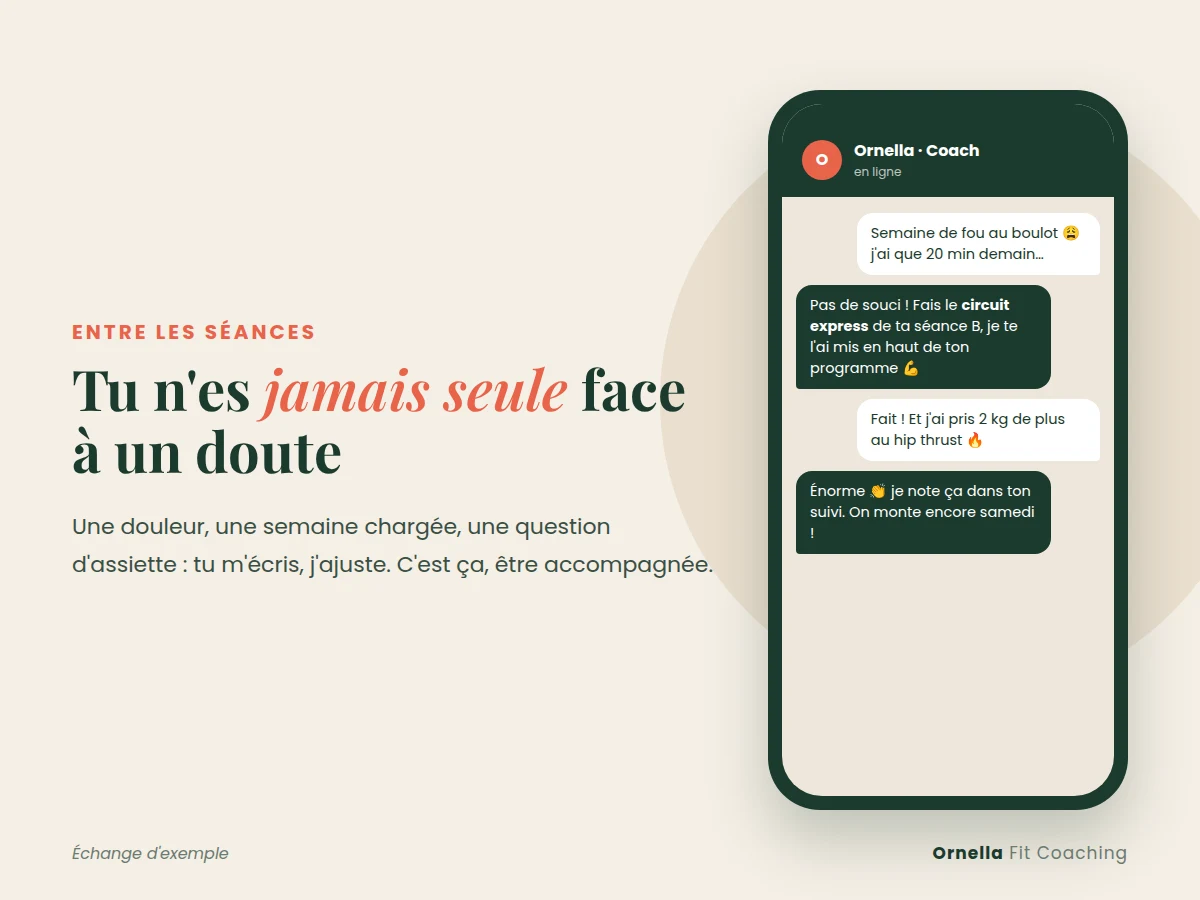
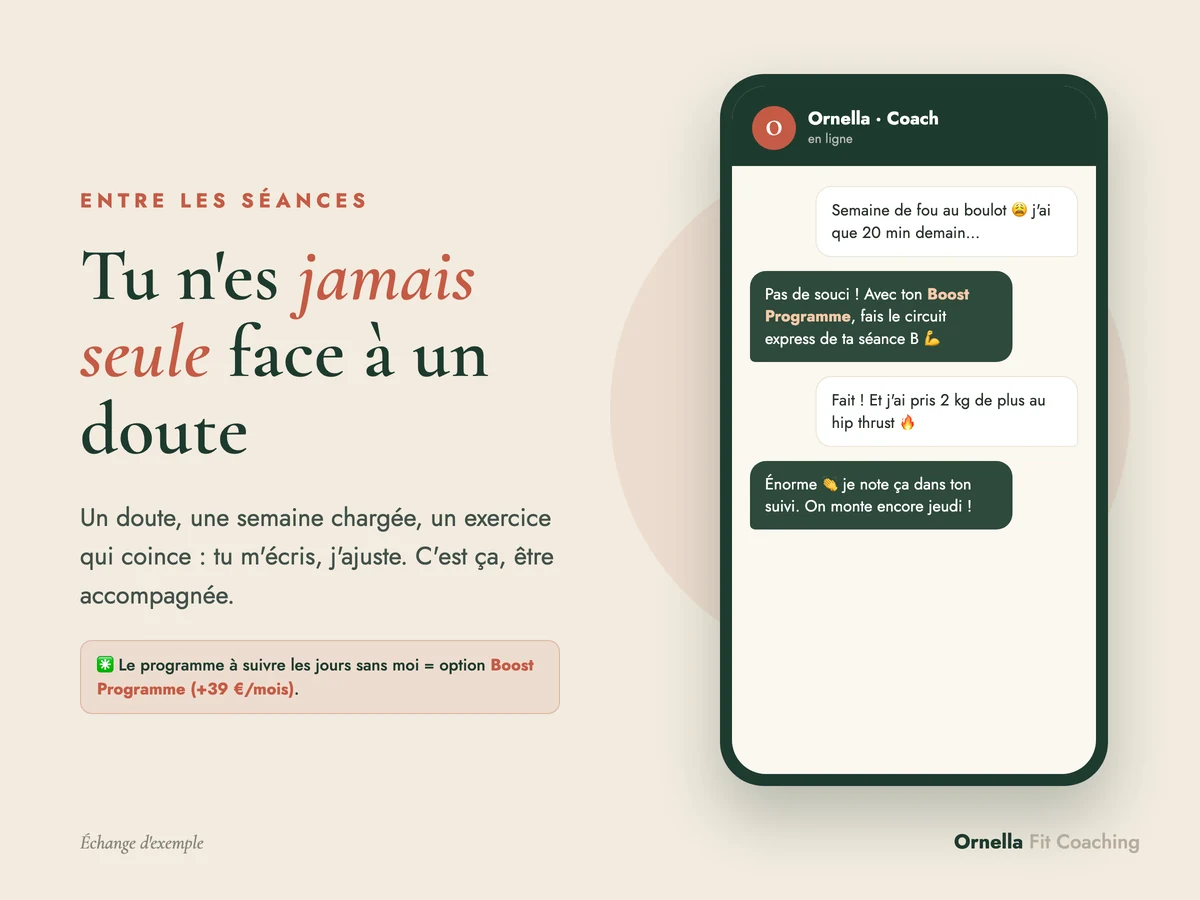
offres: visuel whatsapp-suivi honnête (programme entre séances = Boost Programme +39€ précisé) + reformulation intro hybride (coaching récurrent, pas remise unique)

diff --git a/offres.html b/offres.html
@@ -1282,7 +1282,7 @@ height="0" width="0" style="display:none;visibility:hidden"></iframe></noscript>
       <div class="rf-acc-body">
         <div class="rf-acc-inner">
           <!-- 1 · LE PRINCIPE, EN CLAIR -->
-          <div class="rf-hyb-principle">On s'entraîne <b>ensemble en présentiel</b>, et tu repars avec un <b>vrai programme sur-mesure et interactif</b> pour continuer seule le reste de la semaine — guidé en vidéo, et <b>mis à jour toutes les 4 semaines</b> pour coller à ta progression et à ta vie. Résultat&nbsp;: tu <b>t'entraînes toute la semaine</b>, pas seulement le jour du coaching, sans jamais être livrée à toi-même.</div>
+          <div class="rf-hyb-principle">On s'entraîne <b>ensemble en présentiel, séance après séance</b> — et entre nos rendez-vous, tu continues avec un <b>vrai programme sur-mesure et interactif</b> guidé en vidéo. Je te <b>revois régulièrement</b>, je corrige et j'ajuste ton programme au fil de tes séances (<b>mis à jour toutes les 4 semaines</b>). Résultat&nbsp;: tu <b>t'entraînes toute la semaine</b>, pas seulement le jour du coaching, et tu gardes ta coach à tes côtés dans la durée — jamais livrée à toi-même.</div>
           <div class="rf-gallery" style="margin-top:12px" aria-label="Aperçu de ton programme hybride">
             <figure class="rf-shot" onclick="rfLightbox('images/apercu/programme-reel-seance.webp')"><img src="images/apercu/programme-reel-seance.webp" alt="Séance du programme avec exercices, séries, reps et boutons vidéo de démonstration" loading="lazy"><figcaption>Chaque exo en vidéo</figcaption></figure>
             <figure class="rf-shot" onclick="rfLightbox('images/apercu/programme-reel-chrono.webp')"><img src="images/apercu/programme-reel-chrono.webp" alt="Chrono de repos intégré au programme, lancé entre deux séries" loading="lazy"><figcaption>Chrono de repos intégré</figcaption></figure>
